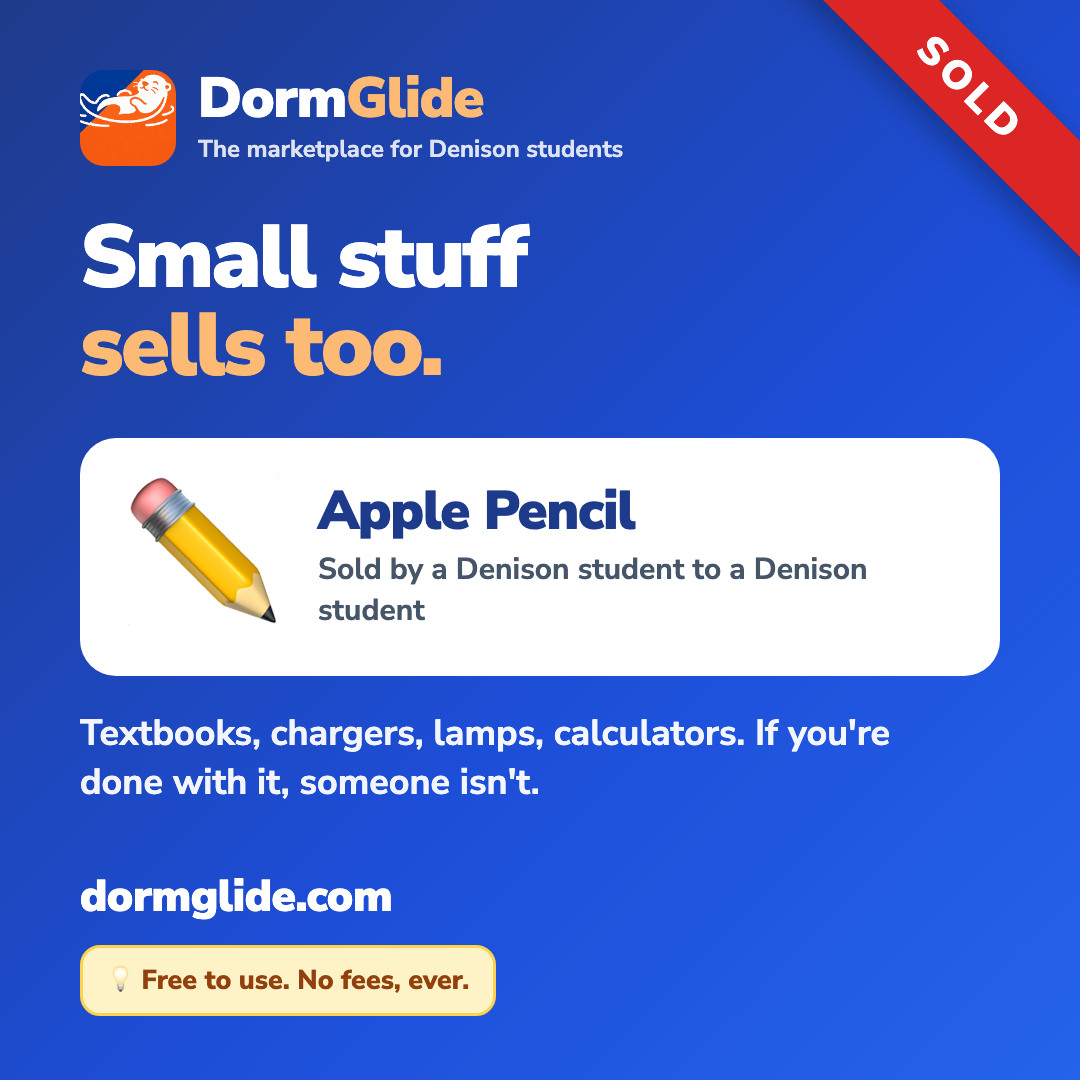
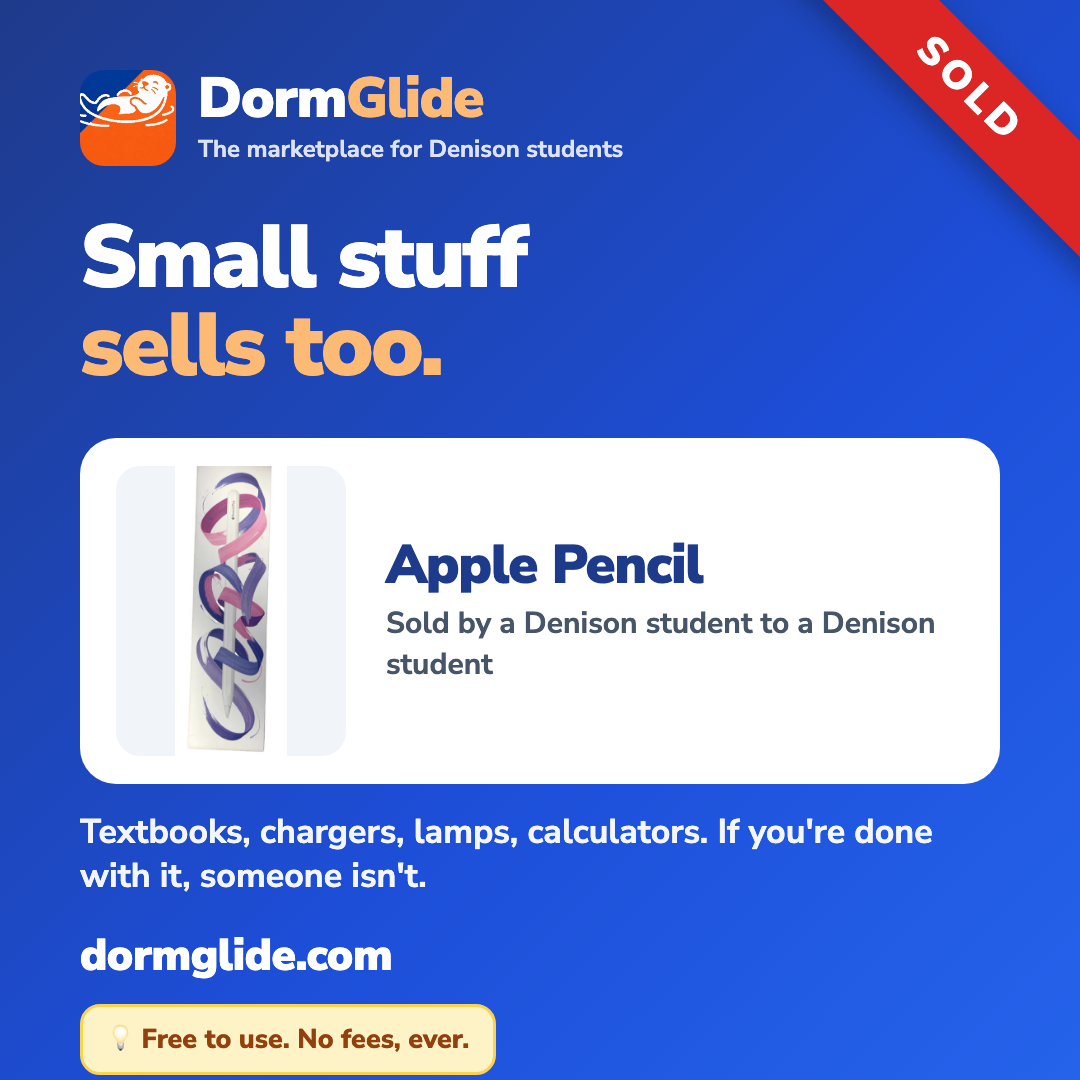
Instagram: Apple Pencil post uses the real listing photo; fridge post parked

Changed region(s): [[0.0611, 0.4278, 0.9472, 0.7639], [0.0611, 0.7639, 0.8556, 1.0]]

diff --git a/marketing/instagram/04-sold-apple-pencil.html b/marketing/instagram/04-sold-apple-pencil.html
@@ -12,13 +12,13 @@
 .tag { font-size:24px; font-weight:700; opacity:.85; margin-top:6px; }
 h1 { font-size:88px; line-height:1.0; font-weight:900; letter-spacing:-0.03em; margin:48px 0 0; }
 h1 span { color:#fdba74; } .orange h1 span { color:#ffedd5; }
-p.lead { font-size:36px; line-height:1.35; font-weight:700; margin:34px 0 0; max-width:860px; opacity:.95; }
+p.lead { font-size:34px; line-height:1.3; font-weight:700; margin:26px 0 0; max-width:860px; opacity:.95; }
 .steps { margin-top:40px; display:flex; flex-direction:column; gap:18px; }
 .step { display:flex; align-items:center; gap:26px; background:rgba(255,255,255,.14); border:2px solid rgba(255,255,255,.35); border-radius:26px; padding:18px 28px; }
 .step .n { width:64px; height:64px; border-radius:50%; background:#fdba74; color:#1e3a8a; font-size:40px; font-weight:900; display:flex; align-items:center; justify-content:center; flex-shrink:0; }
 .step .t { font-size:33px; font-weight:800; line-height:1.15; }
-.sold { margin-top:48px; background:#fff; color:#1f2937; border-radius:36px; padding:44px 48px; display:flex; align-items:center; gap:40px; }
-.sold .g { font-size:150px; line-height:1; }
+.sold { margin-top:48px; background:#fff; color:#1f2937; border-radius:36px; padding:28px 36px; display:flex; align-items:center; gap:40px; }
+.sold .g { font-size:150px; line-height:1; } .sold img.photo { width:230px; height:290px; object-fit:contain; background:#f1f5f9; border-radius:24px; flex-shrink:0; }
 .sold .name { font-size:54px; font-weight:900; color:#1e3a8a; letter-spacing:-0.02em; line-height:1.05; }
 .sold .meta { font-size:30px; font-weight:700; color:#475569; margin-top:10px; }
 .ribbon { position:absolute; top:48px; right:-120px; width:460px; transform:rotate(45deg); background:#dc2626; color:#fff; text-align:center; font-size:40px; font-weight:900; letter-spacing:.12em; padding:14px 0; box-shadow:0 10px 30px rgba(0,0,0,.3); }
@@ -27,5 +27,5 @@ p.lead { font-size:36px; line-height:1.35; font-weight:700; margin:34px 0 0; max
 .rule { background:#fef3c7; color:#92400e; border:3px solid #fcd34d; border-radius:20px; padding:14px 24px; font-size:27px; font-weight:800; }
 .otter { position:absolute; right:60px; top:230px; width:380px; opacity:.95; filter:drop-shadow(0 12px 30px rgba(0,0,0,.25)); }
 </style></head><body><div class="post"><div class="top"><img src="otter-mark.png"><div><div class="wm">Dorm<em>Glide</em></div><div class="tag">The marketplace for Denison students</div></div></div><div class="ribbon">SOLD</div><h1>Small stuff<br><span>sells too.</span></h1>
-   <div class="sold"><div class="g">✏</div><div><div class="name">Apple Pencil</div><div class="meta">Sold by a Denison student to a Denison student</div></div></div>
+   <div class="sold"><img class="photo" src="apple-pencil.jpg"><div><div class="name">Apple Pencil</div><div class="meta">Sold by a Denison student to a Denison student</div></div></div>
    <p class="lead">Textbooks, chargers, lamps, calculators. If you're done with it, someone isn't.</p><div class="bottom"><div class="url">dormglide.com</div><div class="rule">💡 Free to use. No fees, ever.</div></div></div></body></html>
